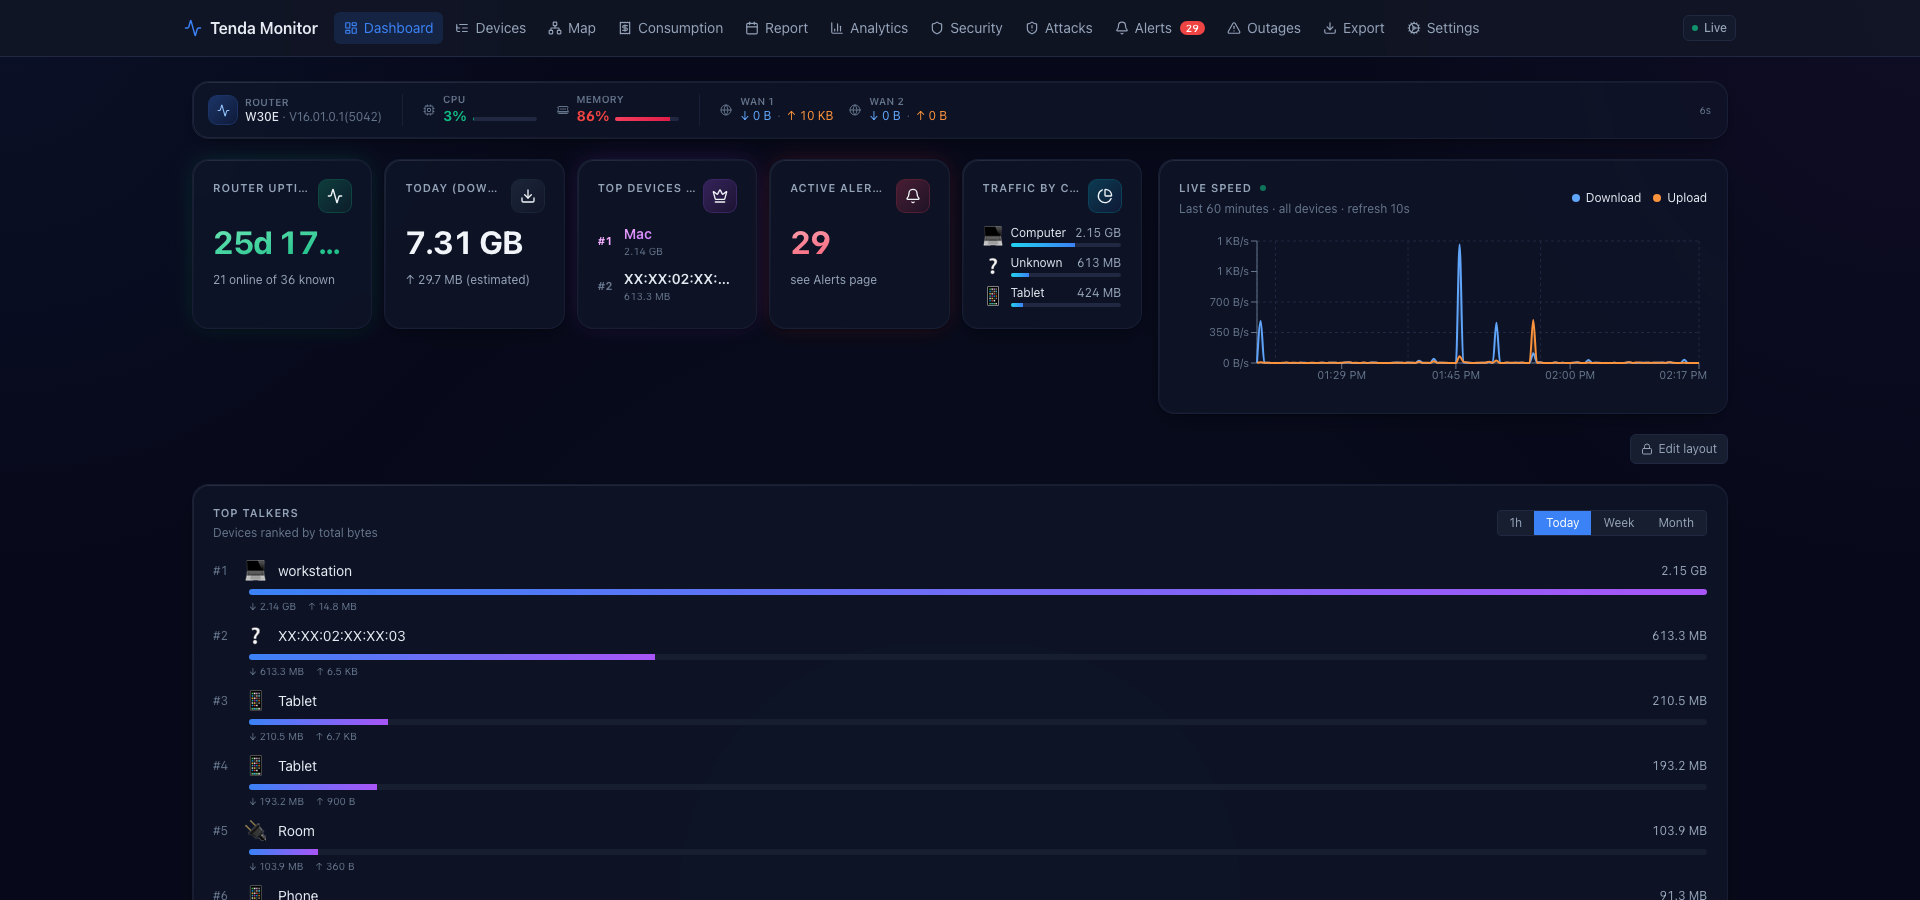
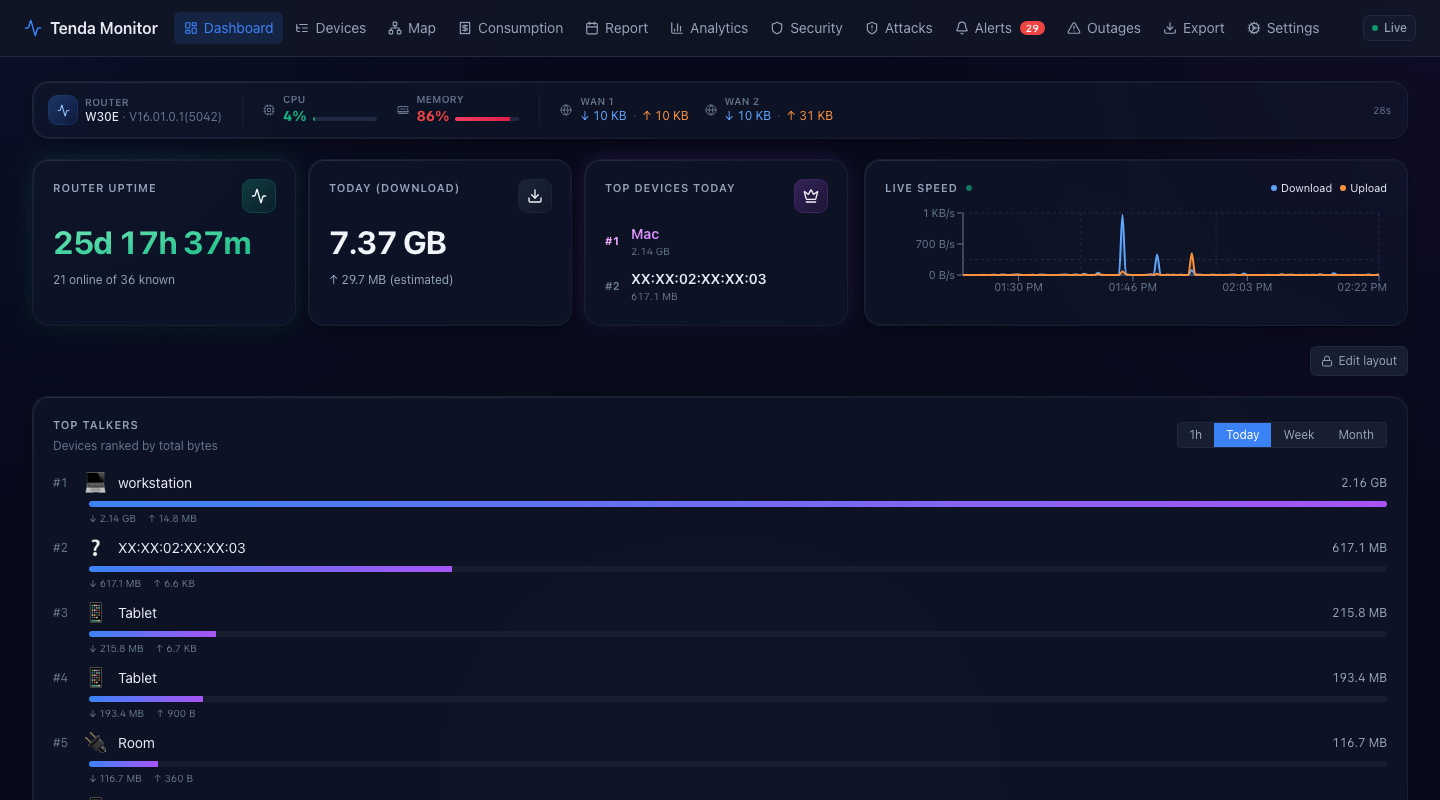
style: simplify status row — 3 cards + Live Speed (matched height)
- Removed Active alerts + Traffic by category cards from the status row
- Live Speed now uses flex-1 to match the row height
- 3:2 ratio on lg+ (stats:livespeed)
- Stack vertically on mobile

diff --git a/apps/web/components/LiveSpeedChart.tsx b/apps/web/components/LiveSpeedChart.tsx
@@ -34,8 +34,8 @@ export function LiveSpeedChart() {
   const errored = !!error && rows.length === 0;
 
   return (
-    <div className="card p-4 sm:p-5 animate-fade-in">
-      <div className="flex items-center justify-between mb-4 flex-wrap gap-2">
+    <div className="card p-4 sm:p-5 animate-fade-in flex flex-col h-full">
+      <div className="flex items-center justify-between mb-2 flex-wrap gap-2">
         <div className="min-w-0">
           <div className="stat-label flex items-center gap-2">
             Live Speed
@@ -43,14 +43,13 @@ export function LiveSpeedChart() {
             {data !== undefined && !error && <span className="w-1.5 h-1.5 rounded-full bg-accent-green animate-pulse" />}
             {error && <span className="w-1.5 h-1.5 rounded-full bg-accent-amber animate-pulse" title="last fetch failed; showing cached data" />}
           </div>
-          <div className="text-[11px] sm:text-xs text-slate-500 mt-1">Last 60 minutes · all devices · refresh 10s</div>
         </div>
-        <div className="flex items-center gap-3 text-[11px] sm:text-xs shrink-0">
-          <span className="flex items-center gap-1.5"><span className="w-2 h-2 rounded-full bg-blue-400"></span>Download</span>
-          <span className="flex items-center gap-1.5"><span className="w-2 h-2 rounded-full bg-orange-400"></span>Upload</span>
+        <div className="flex items-center gap-2 text-[10px] sm:text-[11px] shrink-0">
+          <span className="flex items-center gap-1"><span className="w-1.5 h-1.5 rounded-full bg-blue-400"></span>Download</span>
+          <span className="flex items-center gap-1"><span className="w-1.5 h-1.5 rounded-full bg-orange-400"></span>Upload</span>
         </div>
       </div>
-      <div className="h-32 sm:h-40">
+      <div className="flex-1 min-h-[80px]">
         {errored ? (
           <div className="h-full flex items-center justify-center text-slate-500 text-sm">
             Could not load speed data. Will retry automatically.

diff --git a/apps/web/components/Dashboard.tsx b/apps/web/components/Dashboard.tsx
@@ -145,8 +145,8 @@ export function Dashboard() {
       <TelemetryBar />
 
       {/* Fixed status row — always first, not reorderable. Stats on left, Live Speed on right */}
-      <div className="grid grid-cols-1 2xl:grid-cols-[minmax(0,5fr)_minmax(0,3fr)] gap-3 sm:gap-4">
-        <div className="grid grid-cols-2 md:grid-cols-3 lg:grid-cols-5 gap-2.5 sm:gap-3 self-start">
+      <div className="grid grid-cols-1 lg:grid-cols-[minmax(0,3fr)_minmax(0,2fr)] gap-3 sm:gap-4 items-stretch">
+        <div className="grid grid-cols-1 sm:grid-cols-3 gap-2.5 sm:gap-3">
           <StatCard
             label="Router uptime"
             value={formatDuration(status?.uptime_sec ?? 0)}
@@ -161,14 +161,6 @@ export function Dashboard() {
             icon={<Download size={16} />}
           />
           <TopDevicesCard top={status?.top_device ?? null} second={status?.top_device_2 ?? null} />
-          <StatCard
-            label="Active alerts"
-            value={status?.alerts ?? 0}
-            hint={status?.alerts ? 'see Alerts page' : 'all clear'}
-            icon={<Bell size={16} />}
-            tone={status && status.alerts > 0 ? 'red' : 'default'}
-          />
-          <CategoryStatCard />
         </div>
         <LiveSpeedChart />
       </div>